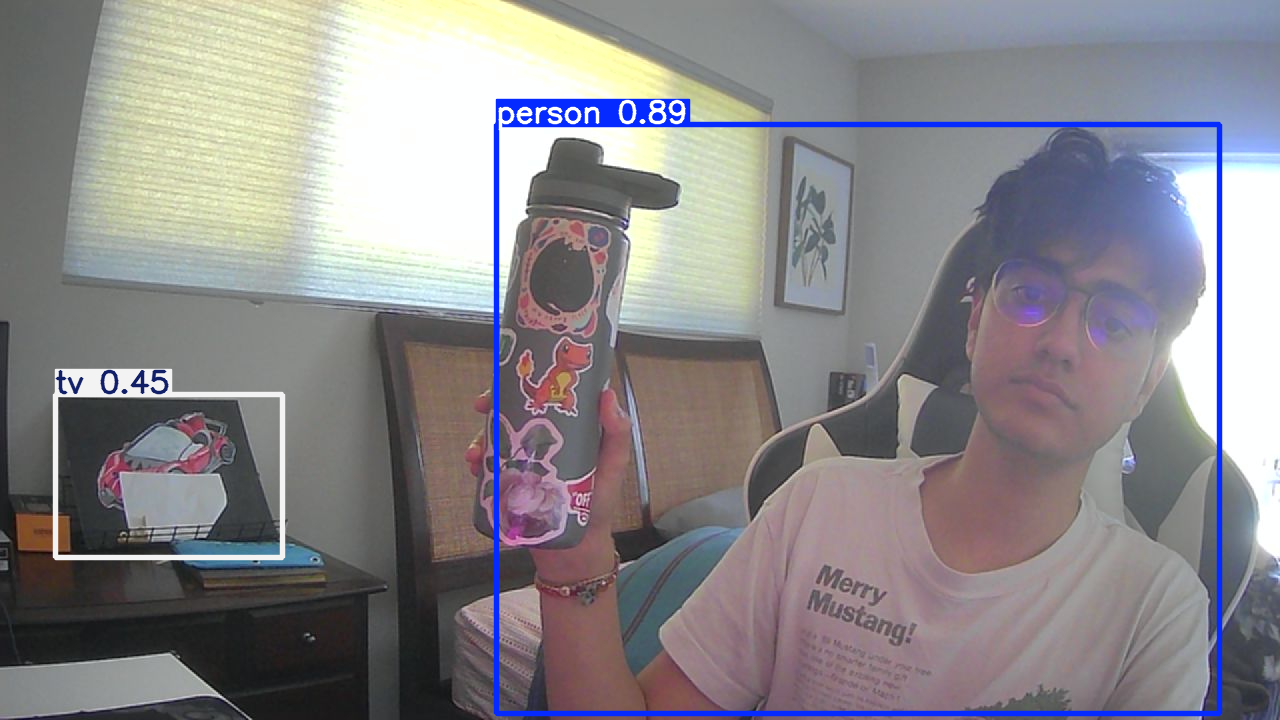
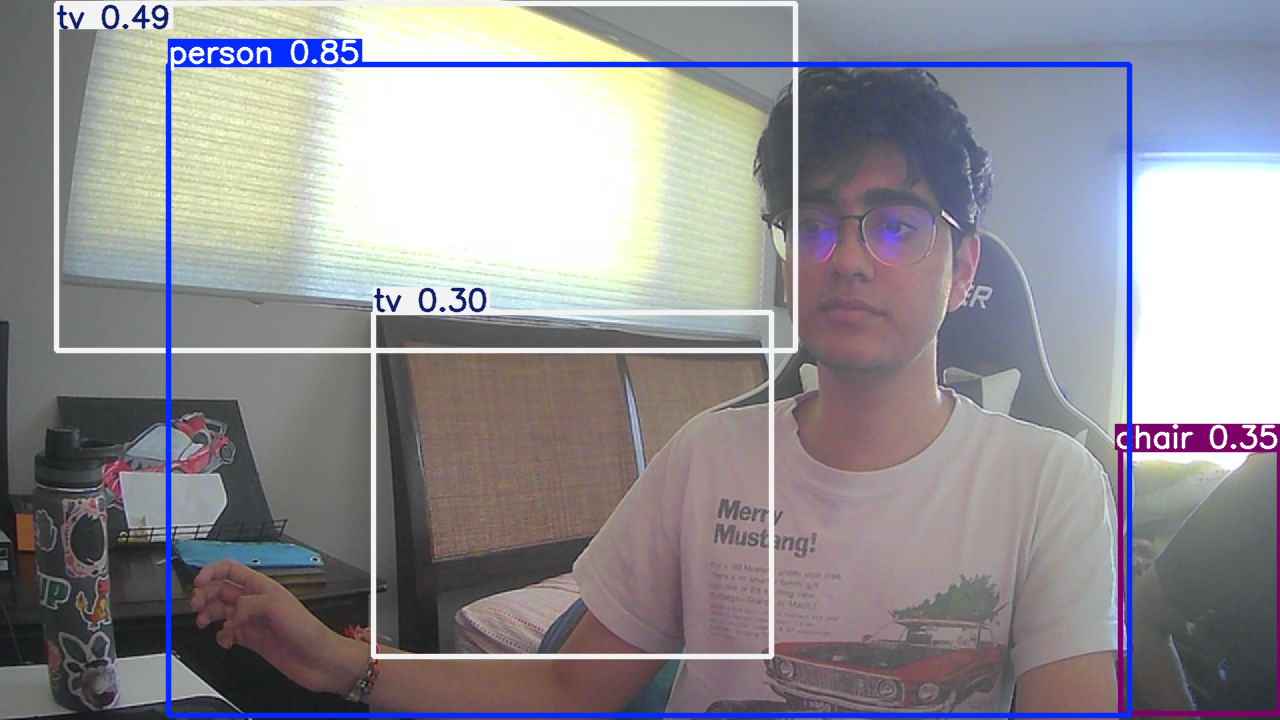
message

diff --git a/yolo/image_recognition.py b/yolo/image_recognition.py
@@ -1,6 +1,9 @@
 import os 
 import sys
 import importlib.util
+import cv2
+from ultralytics.utils.plotting import Annotator
+
 
 HERE = os.path.dirname(os.path.abspath(__file__))
 FRAME_PY = os.path.normpath(os.path.join(HERE, "../frame/frame.py"))
@@ -14,6 +17,32 @@ import ultralytics
 
 model = ultralytics.YOLO("yolov8n.pt") 
 
+
+def show_high_conf(res, model, conf_thresh=0.8):
+    im = res.orig_img.copy()  # start with the original image
+    annotator = Annotator(im)
+
+    for box in res.boxes:
+        conf = float(box.conf[0])
+        if conf >= conf_thresh:
+            cls_id = int(box.cls[0])
+            label = f"{model.names[cls_id]} {conf:.2f}"
+            xyxy = box.xyxy[0]
+            annotator.box_label(xyxy, label, color=(255, 0, 0))  # red boxes
+
+    # show window
+    cv2.imshow("Filtered Detections", annotator.result())
+    cv2.waitKey(0)
+    cv2.destroyAllWindows()
+
+    # also save filtered result
+    import os
+    out_dir = os.path.join("runs", "detect", "filtered")
+    os.makedirs(out_dir, exist_ok=True)
+    out_path = os.path.join(out_dir, "filtered.png")
+    cv2.imwrite(out_path, annotator.result())
+    print(f"Saved filtered result to {out_path}")
+
 def main():
     # output directory 
     pics_dir = os.path.join(HERE, "pics")
@@ -22,17 +51,24 @@ def main():
 
     img_path = os.path.join(pics_dir, "yolo_input.png")
     frame_mod.capture_frame(img_path)
-    print(f"[INFO] Captured frame: {img_path}")
+    print(f"Captured frame: {img_path}")
 
 
     model = ultralytics.YOLO("yolov8n.pt")
     results = model(img_path)   # predict on the image
     res = results[0]
-    # print/display/save results
 
-    res.show()              
-    res.save()              
-    print(res)
+    # console summary of high-confidence boxes
+    for box in res.boxes:
+        if float(box.conf[0]) >= 0.8:
+            cls_id = int(box.cls[0])
+            label = model.names[cls_id]
+            xyxy = box.xyxy[0].tolist()
+            print(f"{label} {float(box.conf[0]):.2f} at {xyxy}")
+
+    # show only filtered boxes
+    show_high_conf(res, model, conf_thresh=0.8)
+
 
 
 if __name__ == "__main__":
